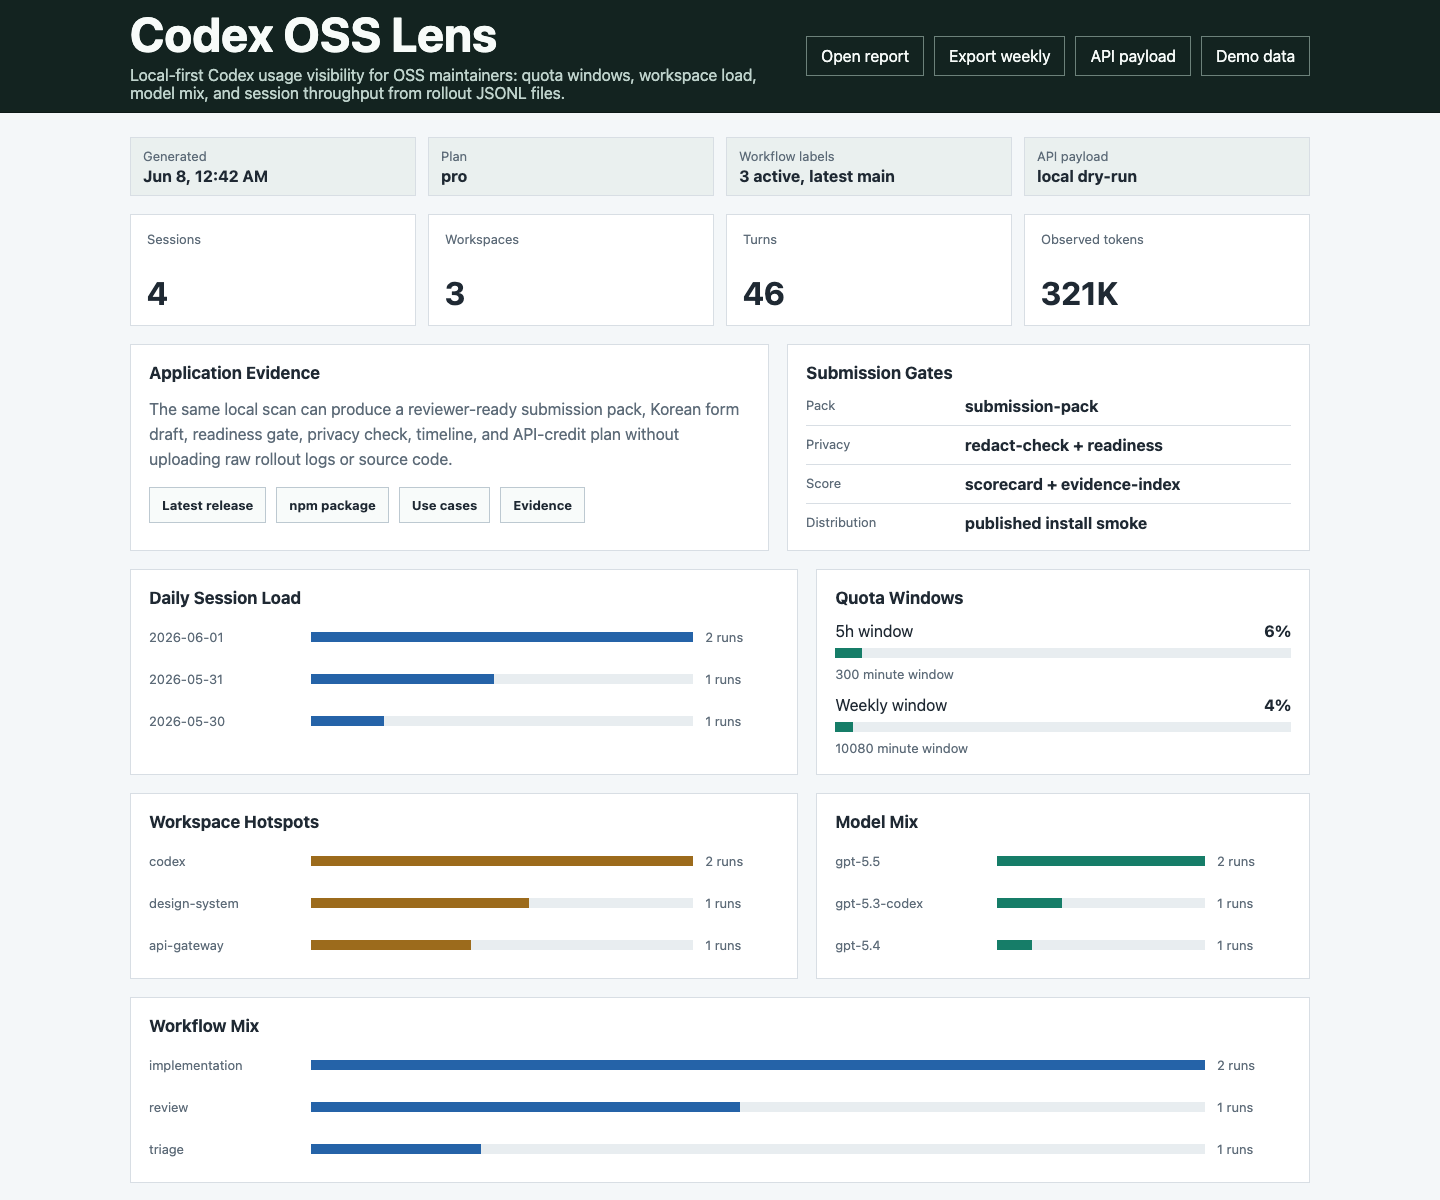
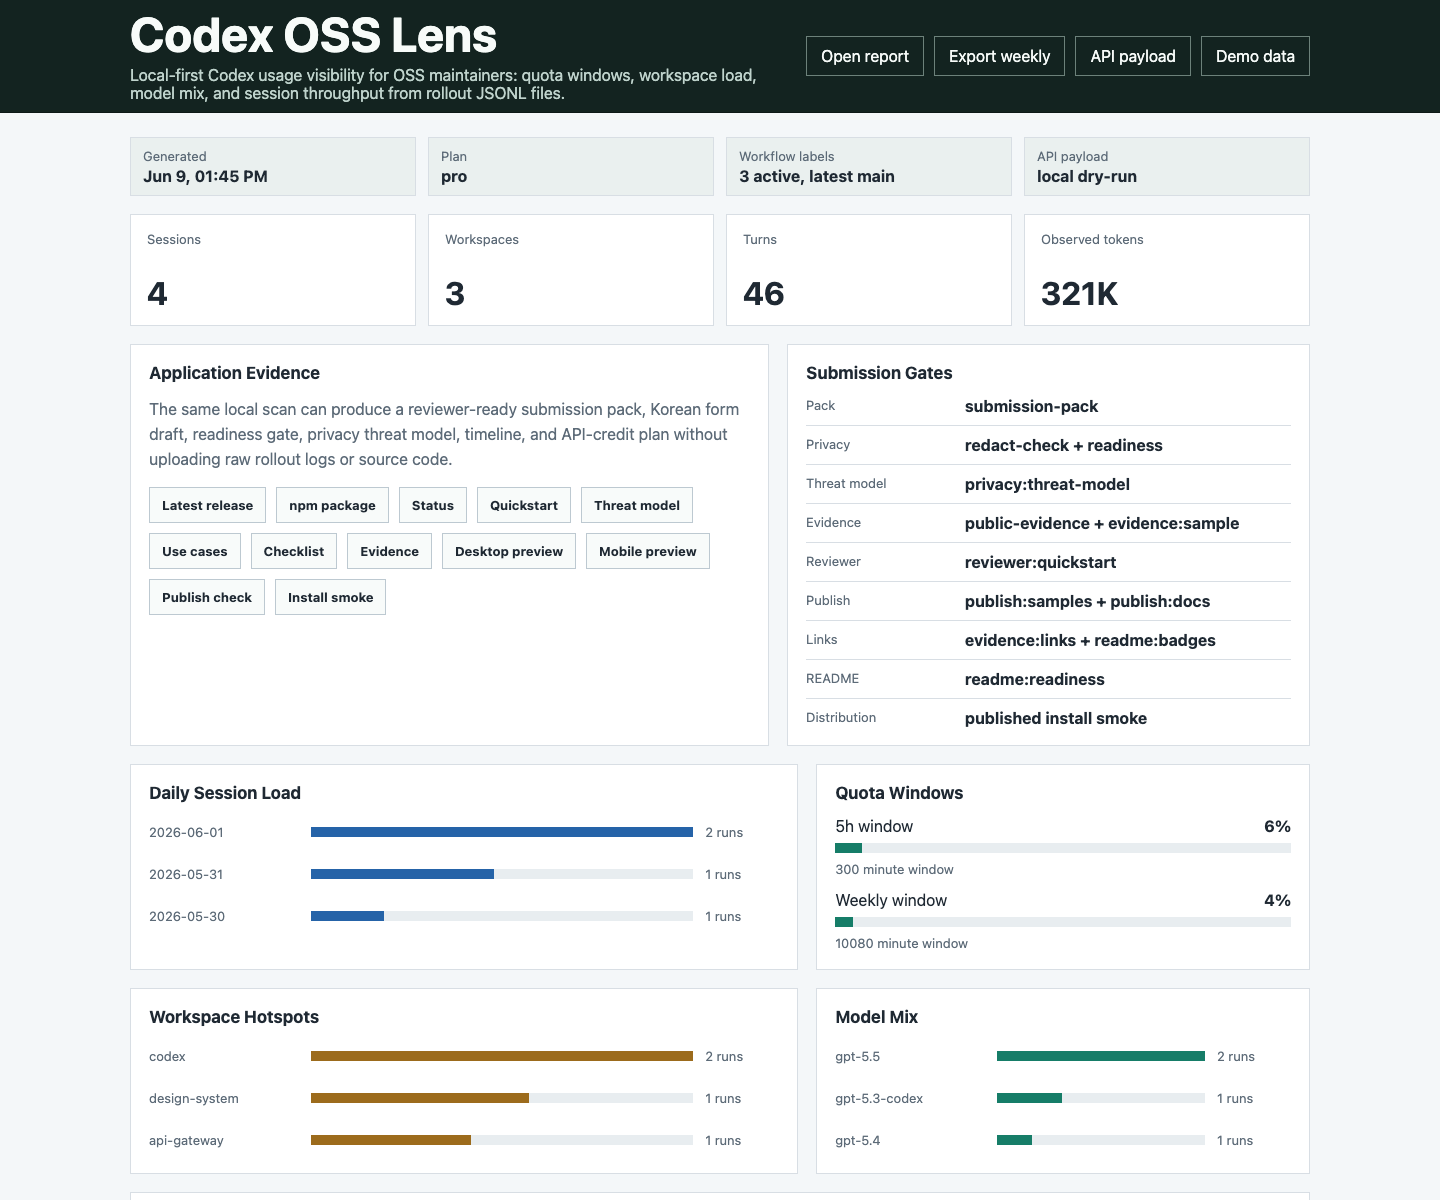
Expose privacy threat model in dashboard evidence
The privacy threat model became canonical reviewer evidence, but the dashboard's first-viewport evidence panel still pointed reviewers only at the older status and checklist links. This change surfaces the threat model directly in the dashboard, adds a matching submission gate row, refreshes public preview PNGs, and tightens dashboard readiness checks so the link stays visible.

Constraint: The dashboard preview images are public evidence and must be regenerated whenever first-viewport reviewer evidence changes.

Constraint: Local 1Password SSH signing agent remains unreliable, so this automation commit is unsigned.

Rejected: Leave the threat model only in generated public-evidence output | reviewers often inspect the visual dashboard first, so the privacy boundary should be visible there too.

Confidence: high

Scope-risk: narrow

Directive: If dashboard evidence links change, update scripts/check-dashboard-readiness.js and regenerate examples/dashboard-preview.png plus examples/dashboard-mobile-preview.png in the same change.

Tested: npm run dashboard:readiness; npm run application:status; npm run public:redaction; npm run evidence:links; npm run submission:check; git diff --check; manual visual inspection of regenerated desktop and mobile PNGs

Not-tested: npm publish, because publishing requires account-owner npm credentials and a fresh version/OTP

diff --git a/public/index.html b/public/index.html
@@ -404,7 +404,7 @@
             <h2>Application Evidence</h2>
             <p class="evidence-copy">
               The same local scan can produce a reviewer-ready submission pack, Korean form draft,
-              readiness gate, privacy check, timeline, and API-credit plan without uploading raw
+              readiness gate, privacy threat model, timeline, and API-credit plan without uploading raw
               rollout logs or source code.
             </p>
             <div class="evidence-actions">
@@ -412,6 +412,7 @@
               <a class="link-button" href="https://www.npmjs.com/package/codex-oss-lens">npm package</a>
               <a class="link-button" href="https://github.com/dbunk903/codex-oss-lens/blob/main/docs/application-status.md">Status</a>
               <a class="link-button" href="https://github.com/dbunk903/codex-oss-lens/blob/main/docs/reviewer-quickstart.md">Quickstart</a>
+              <a class="link-button" href="https://github.com/dbunk903/codex-oss-lens/blob/main/docs/privacy-threat-model.md">Threat model</a>
               <a class="link-button" href="https://github.com/dbunk903/codex-oss-lens/blob/main/docs/maintainer-use-cases.md">Use cases</a>
               <a class="link-button" href="https://github.com/dbunk903/codex-oss-lens/blob/main/docs/final-submission-checklist.md">Checklist</a>
               <a class="link-button" href="https://github.com/dbunk903/codex-oss-lens/blob/main/examples/public-evidence.sample.md">Evidence</a>
@@ -426,6 +427,7 @@
             <ul class="evidence-list">
               <li><span class="label">Pack</span><strong>submission-pack</strong></li>
               <li><span class="label">Privacy</span><strong>redact-check + readiness</strong></li>
+              <li><span class="label">Threat model</span><strong>privacy:threat-model</strong></li>
               <li><span class="label">Evidence</span><strong>public-evidence + evidence:sample</strong></li>
               <li><span class="label">Reviewer</span><strong>reviewer:quickstart</strong></li>
               <li><span class="label">Publish</span><strong>publish:samples + publish:docs</strong></li>

diff --git a/scripts/check-dashboard-readiness.js b/scripts/check-dashboard-readiness.js
@@ -10,6 +10,8 @@ requireText("Application Evidence", "application evidence panel");
 requireText("Submission Gates", "submission gates panel");
 requireText("submission-pack", "submission pack gate");
 requireText("redact-check + readiness", "privacy readiness gate");
+requireText("privacy threat model", "privacy threat model positioning");
+requireText("privacy:threat-model", "privacy threat model gate");
 requireText("public-evidence + evidence:sample", "public evidence sample gate");
 requireText("reviewer:quickstart", "reviewer quickstart gate");
 requireText("publish:samples + publish:docs", "publish gate");
@@ -24,6 +26,7 @@ for (const [label, url] of Object.entries({
   npmPackage: evidence.publicLinks.npmPackage,
   applicationStatusUrl: evidence.publicLinks.applicationStatusUrl,
   reviewerQuickstartUrl: evidence.publicLinks.reviewerQuickstartUrl,
+  privacyThreatModelUrl: evidence.publicLinks.privacyThreatModelUrl,
   finalChecklistUrl: evidence.publicLinks.finalChecklistUrl,
   publicEvidenceSampleUrl: evidence.publicLinks.publicEvidenceSampleUrl,
   dashboardPreviewUrl: evidence.publicLinks.dashboardPreviewUrl,

diff --git a/docs/application-status.md b/docs/application-status.md
@@ -21,7 +21,7 @@ open-source support form.
 | Reviewer quickstart | Ready | `docs/reviewer-quickstart.md` is checked by `npm run reviewer:quickstart` against the canonical reviewer link map. |
 | Publish samples | Ready | `npm run publish:samples` checks publish-check and install-smoke samples against the current package version. |
 | Publishing docs | Ready | `npm run publish:docs` checks npm publishing docs and the publish checklist against the current package and release gates. |
-| Dashboard readiness | Ready | `npm run dashboard:readiness` checks the public dashboard evidence panel against reviewer links and submit gates. |
+| Dashboard readiness | Ready | `npm run dashboard:readiness` checks the public dashboard evidence panel against reviewer links, privacy threat-model evidence, and submit gates. |
 | CI readiness | Ready | `npm run ci:readiness` checks that GitHub Actions keeps the Node 20/22 matrix, package smoke, public evidence, and submission evidence gates wired. |
 | Contribution readiness | Ready | `npm run contrib:readiness` checks CONTRIBUTING, the bug report template, and the PR template for validation and privacy guidance. |
 | Security readiness | Ready | `npm run security:readiness` checks SECURITY.md and issue templates for vulnerability reporting and sensitive-data guidance. |

diff --git a/docs/final-submission-checklist.md b/docs/final-submission-checklist.md
@@ -88,7 +88,7 @@ npm exec --yes --package codex-oss-lens@latest -- codex-oss-lens demo
 - `npm run form-draft:sample` confirms the public form-draft sample includes every reviewer evidence link and manual submit field.
 - `npm run publish:samples` confirms publish-check and install-smoke samples match the current package version and publish gates.
 - `npm run publish:docs` confirms npm publishing docs and the publish checklist match the current package and release gates.
-- `npm run dashboard:readiness` confirms the public dashboard evidence panel links to reviewer materials and current submit gates.
+- `npm run dashboard:readiness` confirms the public dashboard evidence panel links to reviewer materials, privacy threat-model evidence, and current submit gates.
 - `npm run ci:readiness` confirms GitHub Actions still runs the Node matrix, packaged CLI smoke, public evidence, and submission evidence gates.
 - `npm run contrib:readiness` confirms CONTRIBUTING, the bug report template, and the PR template include validation and privacy guidance.
 - `npm run security:readiness` confirms SECURITY.md and issue templates include vulnerability reporting and sensitive-data guidance.
